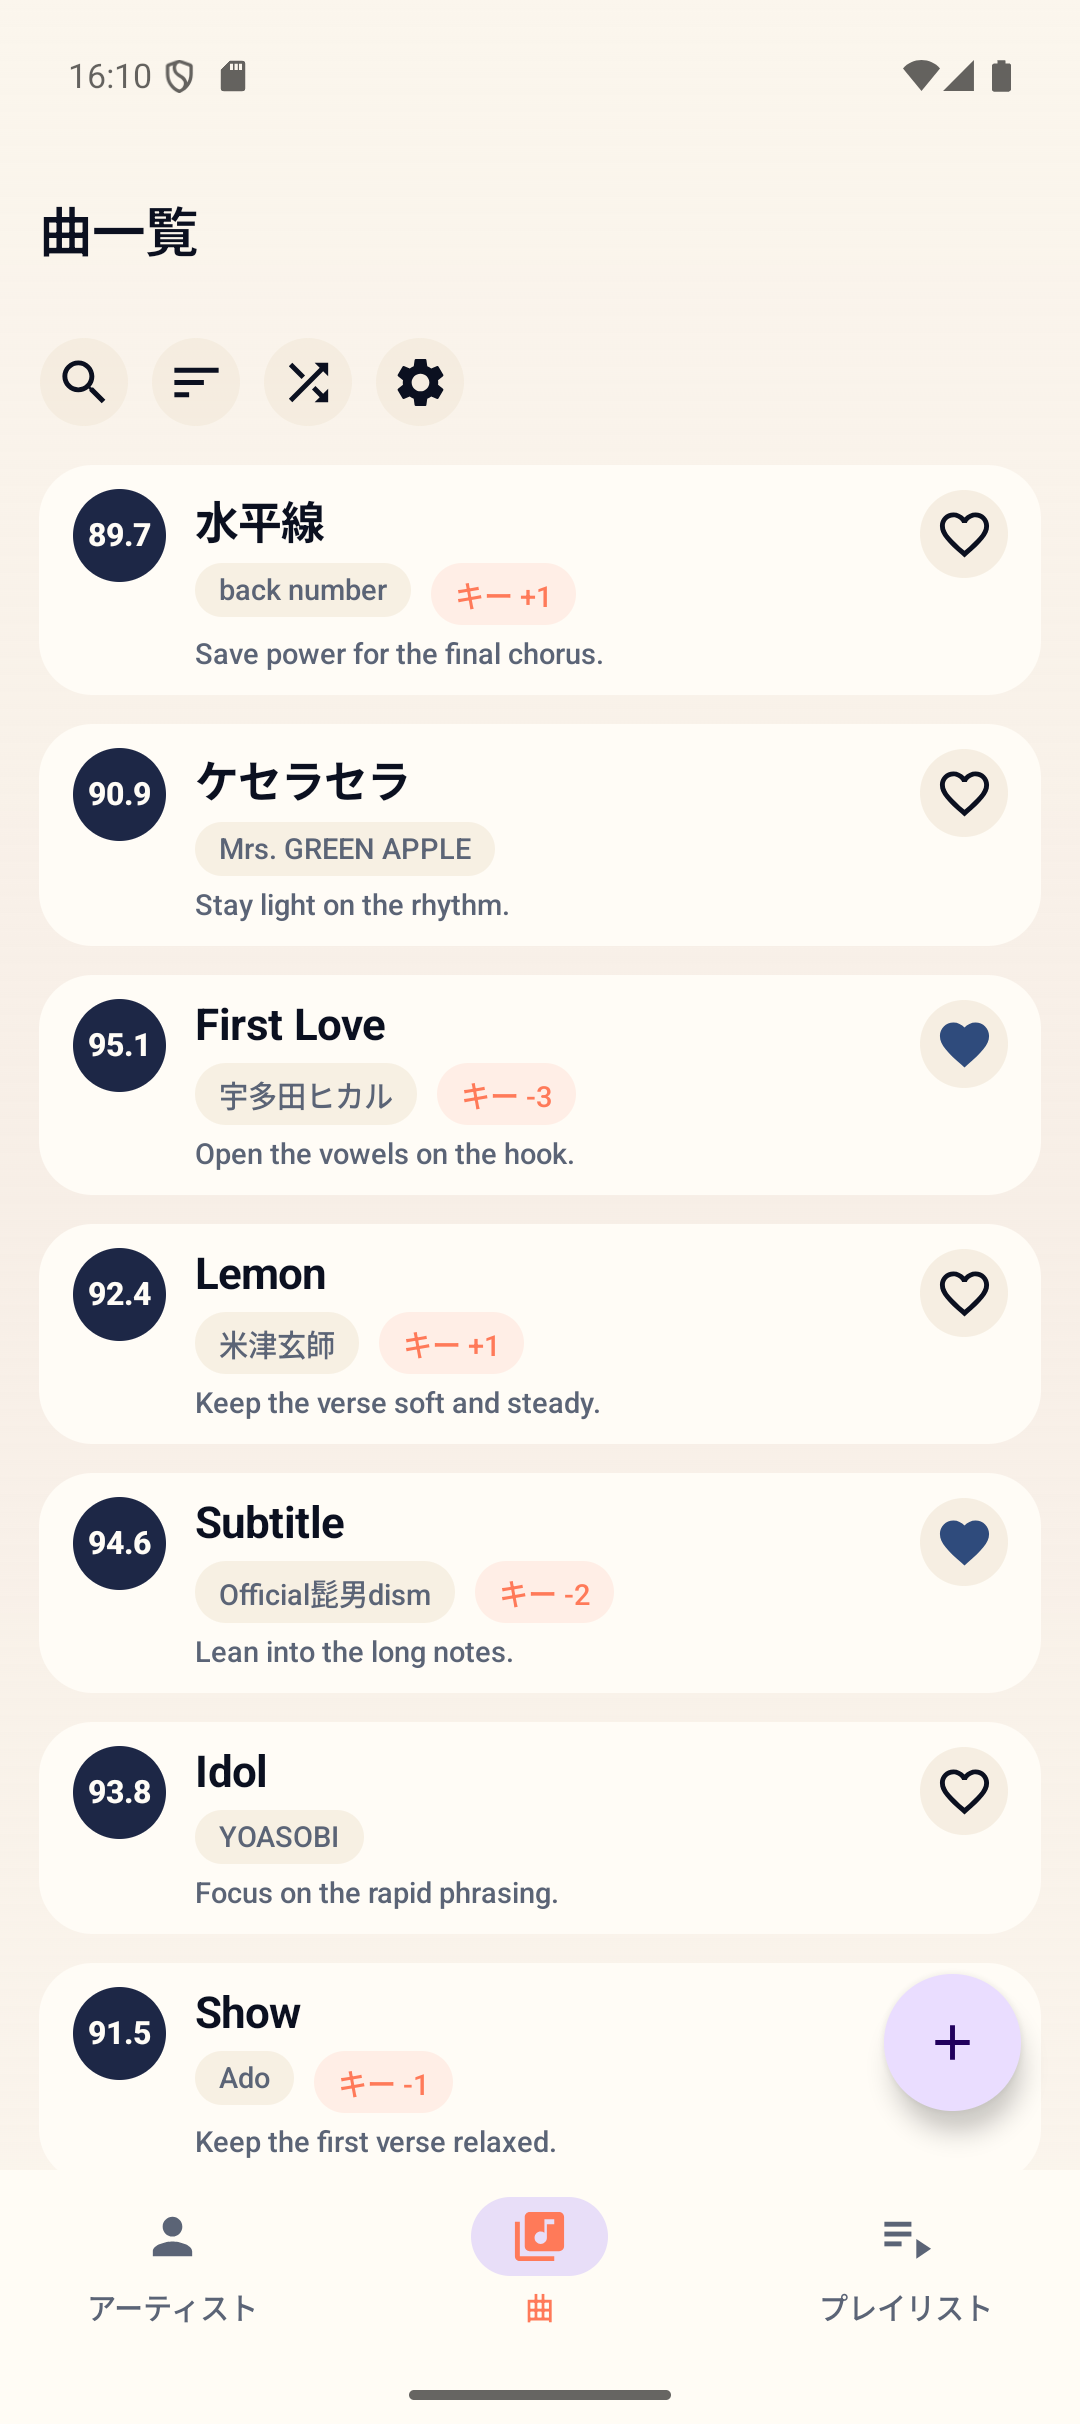
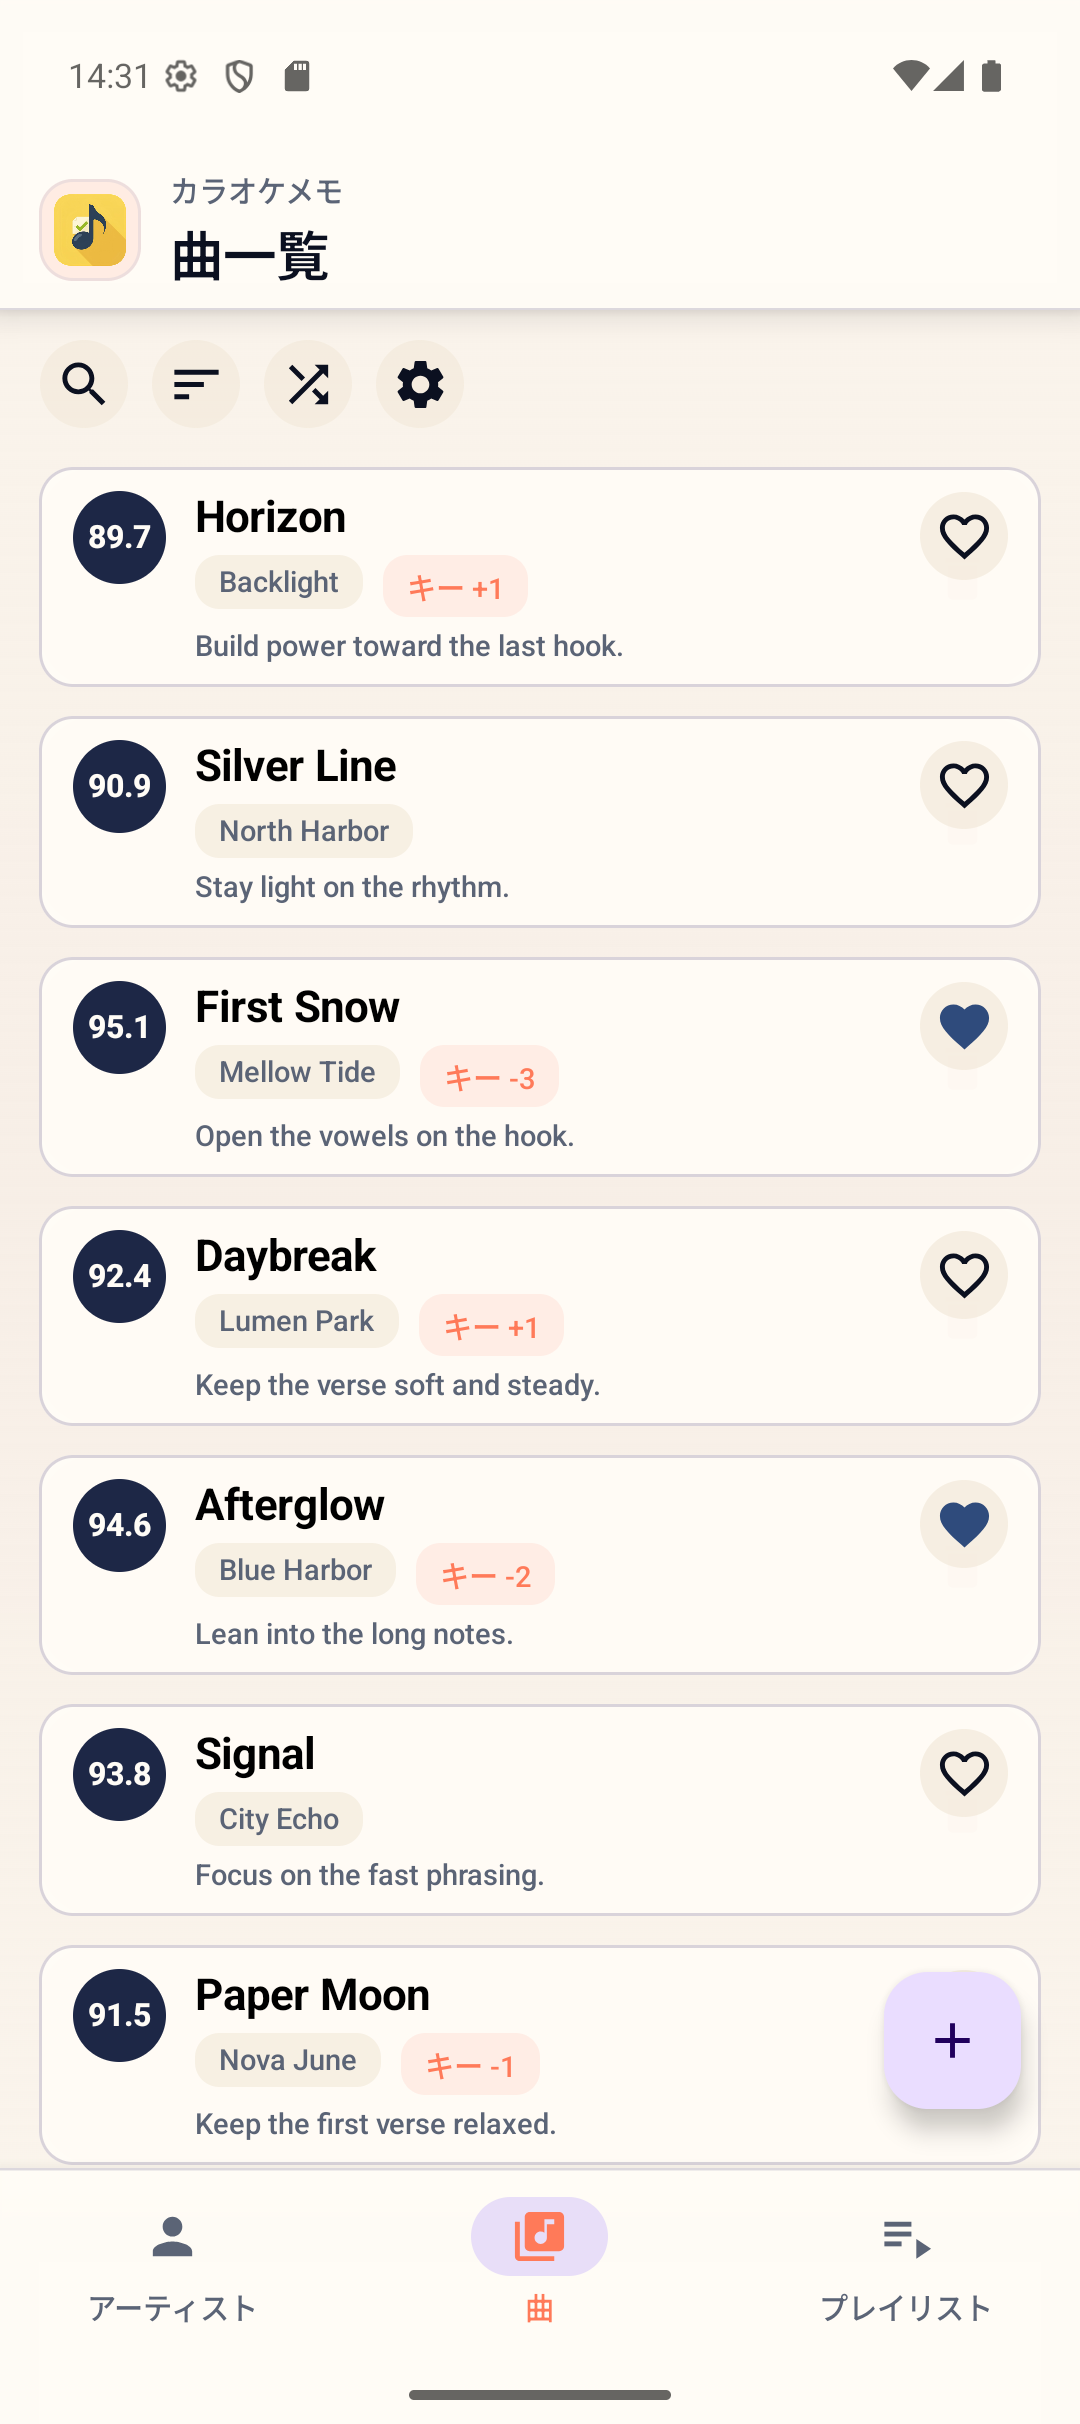
Prepare Google Play store listing assets

diff --git a/app/src/debug/java/com/taigatkd/karamemo/debug/MarketingSeedActivity.kt b/app/src/debug/java/com/taigatkd/karamemo/debug/MarketingSeedActivity.kt
@@ -53,17 +53,17 @@ class MarketingSeedActivity : ComponentActivity() {
                     createdAtEpochMillis = 1_710_000_002_000,
                 ),
             )
-            for (playlist in playlists) {
+            playlists.forEach { playlist ->
                 db.playlistDao().upsert(playlist)
             }
 
             val songs = listOf(
                 SongEntity(
                     id = "song-01",
-                    artist = "Aimer",
-                    title = "Ref:rain",
+                    artist = "Aster",
+                    title = "Skyline",
                     keyValue = 2,
-                    memo = "Watch the breath before the chorus.",
+                    memo = "Save breath for the final chorus.",
                     isFavorite = true,
                     playlistId = "playlist-favorites",
                     createdAtEpochMillis = 1_710_000_003_000,
@@ -71,8 +71,8 @@ class MarketingSeedActivity : ComponentActivity() {
                 ),
                 SongEntity(
                     id = "song-02",
-                    artist = "Ado",
-                    title = "Show",
+                    artist = "Nova June",
+                    title = "Paper Moon",
                     keyValue = -1,
                     memo = "Keep the first verse relaxed.",
                     isFavorite = false,
@@ -82,10 +82,10 @@ class MarketingSeedActivity : ComponentActivity() {
                 ),
                 SongEntity(
                     id = "song-03",
-                    artist = "YOASOBI",
-                    title = "Idol",
+                    artist = "City Echo",
+                    title = "Signal",
                     keyValue = 0,
-                    memo = "Focus on the rapid phrasing.",
+                    memo = "Focus on the fast phrasing.",
                     isFavorite = false,
                     playlistId = "playlist-highnotes",
                     createdAtEpochMillis = 1_710_000_005_000,
@@ -93,8 +93,8 @@ class MarketingSeedActivity : ComponentActivity() {
                 ),
                 SongEntity(
                     id = "song-04",
-                    artist = "Official髭男dism",
-                    title = "Subtitle",
+                    artist = "Blue Harbor",
+                    title = "Afterglow",
                     keyValue = -2,
                     memo = "Lean into the long notes.",
                     isFavorite = true,
@@ -104,8 +104,8 @@ class MarketingSeedActivity : ComponentActivity() {
                 ),
                 SongEntity(
                     id = "song-05",
-                    artist = "米津玄師",
-                    title = "Lemon",
+                    artist = "Lumen Park",
+                    title = "Daybreak",
                     keyValue = 1,
                     memo = "Keep the verse soft and steady.",
                     isFavorite = false,
@@ -115,8 +115,8 @@ class MarketingSeedActivity : ComponentActivity() {
                 ),
                 SongEntity(
                     id = "song-06",
-                    artist = "宇多田ヒカル",
-                    title = "First Love",
+                    artist = "Mellow Tide",
+                    title = "First Snow",
                     keyValue = -3,
                     memo = "Open the vowels on the hook.",
                     isFavorite = true,
@@ -126,8 +126,8 @@ class MarketingSeedActivity : ComponentActivity() {
                 ),
                 SongEntity(
                     id = "song-07",
-                    artist = "Mrs. GREEN APPLE",
-                    title = "ケセラセラ",
+                    artist = "North Harbor",
+                    title = "Silver Line",
                     keyValue = 0,
                     memo = "Stay light on the rhythm.",
                     isFavorite = false,
@@ -137,17 +137,17 @@ class MarketingSeedActivity : ComponentActivity() {
                 ),
                 SongEntity(
                     id = "song-08",
-                    artist = "back number",
-                    title = "水平線",
+                    artist = "Backlight",
+                    title = "Horizon",
                     keyValue = 1,
-                    memo = "Save power for the final chorus.",
+                    memo = "Build power toward the last hook.",
                     isFavorite = false,
                     playlistId = null,
                     createdAtEpochMillis = 1_710_000_010_000,
                     scoreValue = 89.7,
                 ),
             )
-            for (song in songs) {
+            songs.forEach { song ->
                 db.songDao().upsert(song)
             }
 
@@ -176,7 +176,7 @@ class MarketingSeedActivity : ComponentActivity() {
                     music = 24,
                 ),
             )
-            preferences.toggleArtistPin("Aimer")
+            preferences.toggleArtistPin("Aster")
             preferences.togglePlaylistPin("playlist-favorites")
             preferences.setSongSortType(SongSortType.DATE_DESC)
             preferences.setCachedRealProEnabled(false)

diff --git a/docs/release/assets/google-play/feature-graphic.html b/docs/release/assets/google-play/feature-graphic.html
@@ -4,6 +4,7 @@
   <meta charset="utf-8">
   <meta name="viewport" content="width=1024, initial-scale=1">
   <title>KaraMemo Feature Graphic</title>
+  <link rel="icon" type="image/png" href="./app-icon.png">
   <style>
     :root {
       --bg-start: #fff8f1;
@@ -225,7 +226,7 @@
   <main class="layout">
     <section class="copy">
       <div class="brand">
-        <img src="../../../../app/src/main/res/mipmap-xxxhdpi/ic_launcher.png" alt="KaraMemo">
+        <img src="./app-icon.png" alt="KaraMemo">
         <h1 class="brand-title">KaraMemo</h1>
       </div>
       <p class="subcopy">曲・キー・プレイリストを、ひとつに整理。</p>

diff --git a/docs/privacy-policy/index.html b/docs/privacy-policy/index.html
@@ -4,6 +4,7 @@
   <meta charset="utf-8">
   <meta name="viewport" content="width=device-width, initial-scale=1">
   <title>KaraokeMemo Privacy Policy</title>
+  <link rel="icon" type="image/png" href="../release/assets/google-play/app-icon.png">
   <style>
     :root {
       color-scheme: light;

diff --git a/docs/release/assets/google-play/README.md b/docs/release/assets/google-play/README.md
@@ -16,10 +16,35 @@ Generated store assets for the first Google Play release.
   - Playlist list screenshot.
 - `ja-JP/phone-04-song-editor.png`
   - Song editor sheet screenshot.
-- `ja-JP/phone-05-settings-pro.png`
-  - Settings / Pro screenshot.
+- `ja-JP/phone-05-karaoke-settings.png`
+  - Karaoke machine settings screenshot.
+- `ja-JP/play-ready/phone-play-01-song-list.png`
+  - 1080x1920 Play-ready song list screenshot.
+- `ja-JP/play-ready/phone-play-02-artist-list.png`
+  - 1080x1920 Play-ready artist list screenshot.
+- `ja-JP/play-ready/phone-play-03-playlist-list.png`
+  - 1080x1920 Play-ready playlist list screenshot.
+- `ja-JP/play-ready/phone-play-04-song-editor.png`
+  - 1080x1920 Play-ready song editor screenshot.
+- `ja-JP/play-ready/phone-play-05-karaoke-settings.png`
+  - 1080x1920 Play-ready karaoke settings screenshot.
+- `ja-JP/store-ready/phone-store-01-song-list.png`
+  - Decorated Play Store screenshot for the song list.
+- `ja-JP/store-ready/phone-store-02-artist-list.png`
+  - Decorated Play Store screenshot for the artist list.
+- `ja-JP/store-ready/phone-store-03-playlist-list.png`
+  - Decorated Play Store screenshot for the playlist list.
+- `ja-JP/store-ready/phone-store-04-song-editor.png`
+  - Decorated Play Store screenshot for the song editor.
+- `ja-JP/store-ready/phone-store-05-karaoke-settings.png`
+  - Decorated Play Store screenshot for karaoke machine settings.
+- `generate-store-screenshots.ps1`
+  - Regenerates the decorated Play Store screenshots from the raw captures.
 
 ## Notes
 
 - Screenshots were captured from the seeded debug build on the Android emulator.
+- `ja-JP/` contains the raw captures from the emulator.
+- `ja-JP/play-ready/` contains the 9:16 portrait versions intended for Play Console upload.
+- `ja-JP/store-ready/` contains the more stylized Play Store listing images with headings and short explanatory copy.
 - The feature graphic is based on the real app screenshots and launcher icon.

diff --git a/docs/release/google-play-store-listing.md b/docs/release/google-play-store-listing.md
@@ -102,15 +102,15 @@ Use the release build for screenshots. Capture the same story in both Japanese a
 ### Recommended sample data for screenshots
 
 - Artists:
-  - `Aimer`
-  - `Ado`
-  - `YOASOBI`
-  - `Official髭男dism`
+  - `Aster`
+  - `Nova June`
+  - `North Harbor`
+  - `Blue Harbor`
 - Songs:
-  - `Ref:rain`
-  - `Show`
-  - `アイドル`
-  - `Subtitle`
+  - `Skyline`
+  - `Paper Moon`
+  - `Silver Line`
+  - `Afterglow`
 - Playlist examples:
   - `Favorites`
   - `Practice Set`
